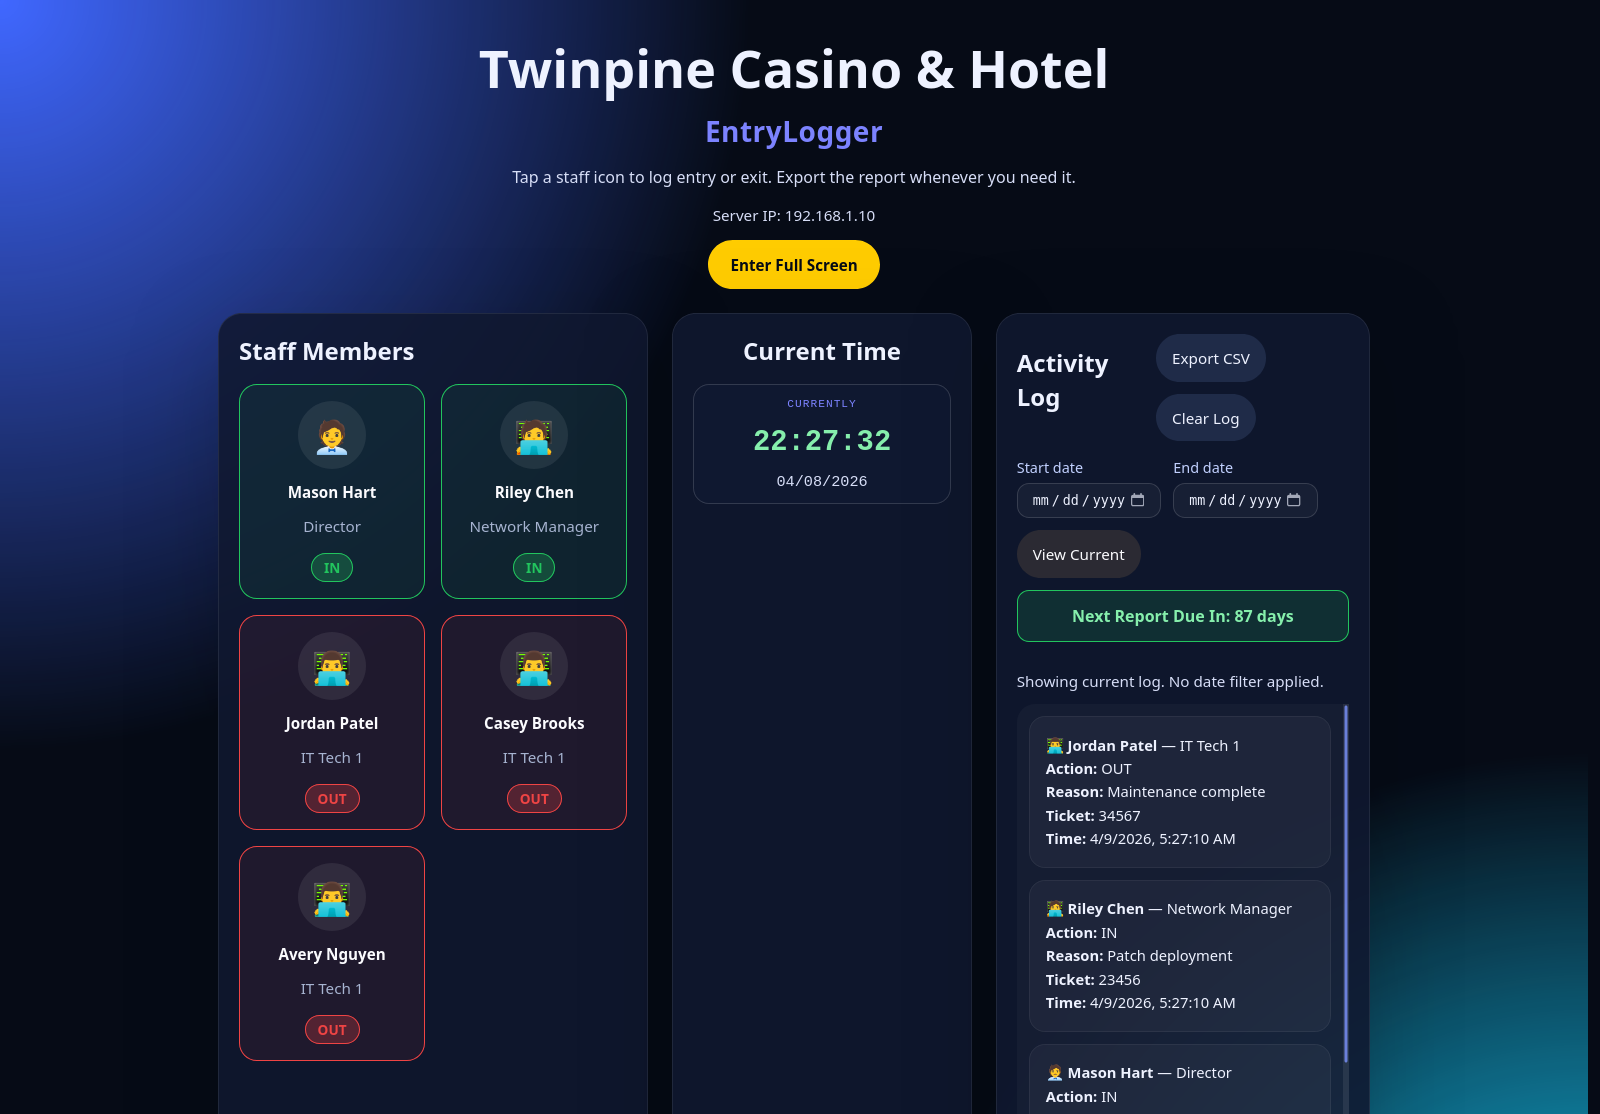
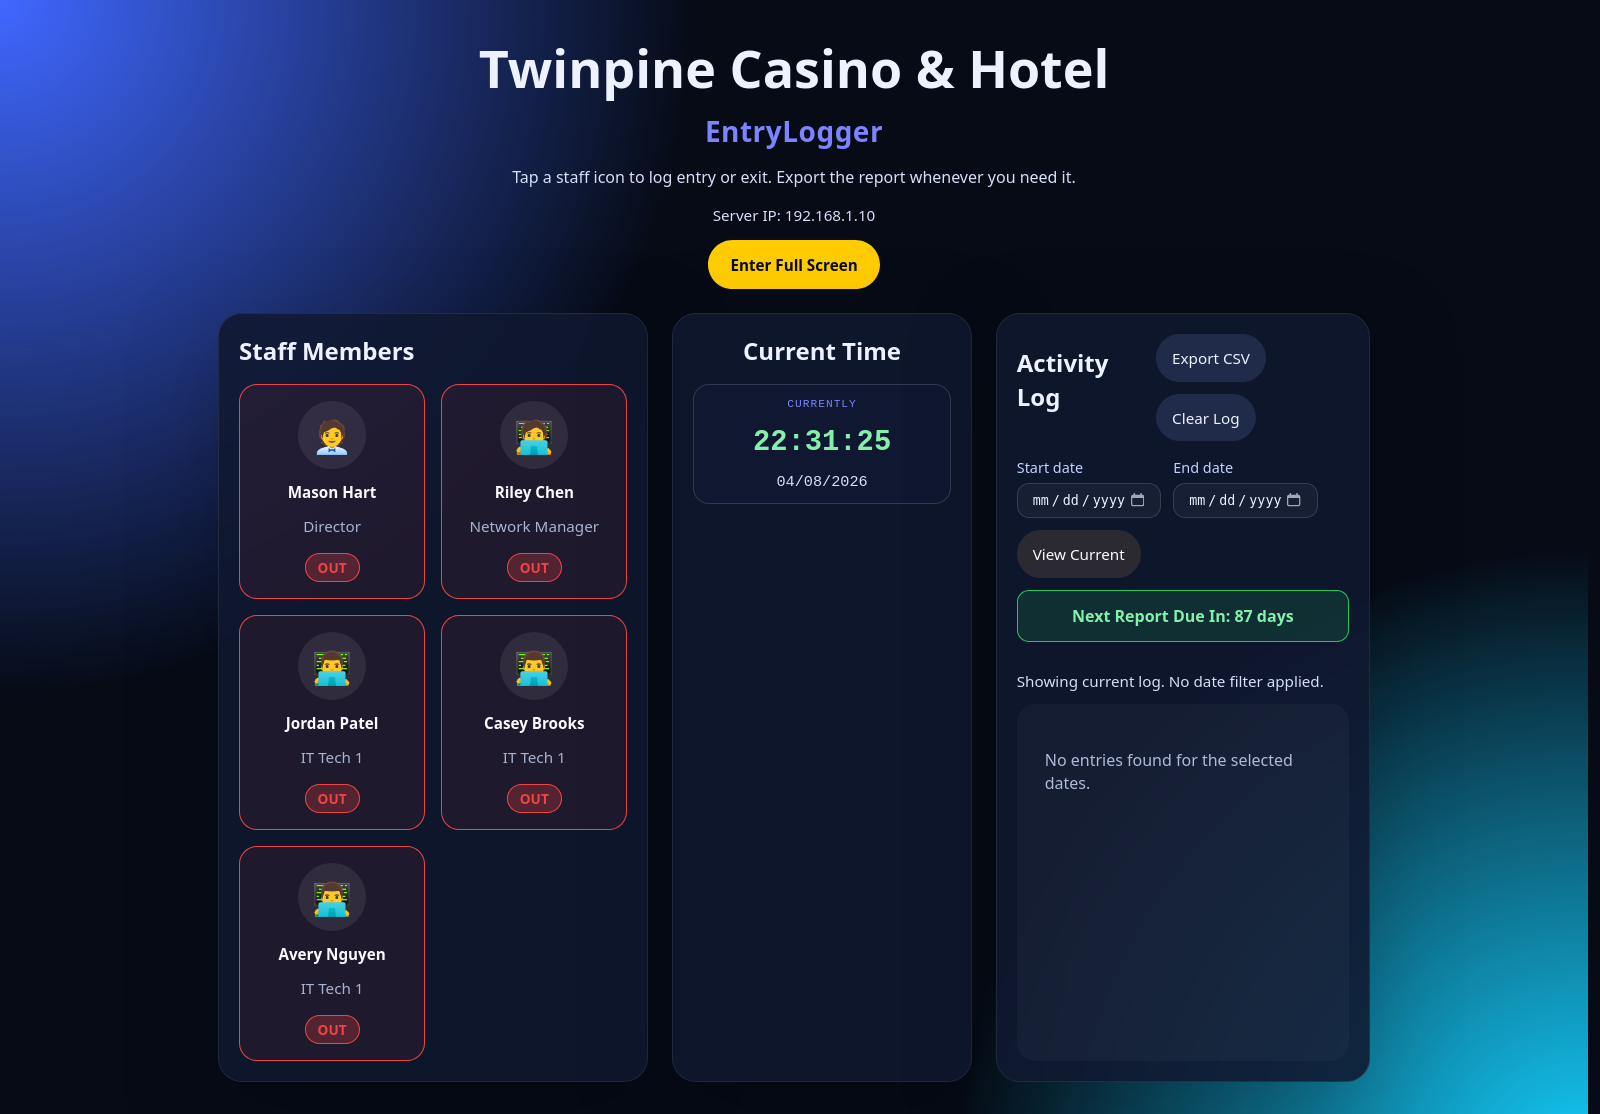
Remove Twinpine branding and refresh screenshots

diff --git a/templates/index.html b/templates/index.html
@@ -3,13 +3,13 @@
 <head>
   <meta charset="UTF-8" />
   <meta name="viewport" content="width=device-width, initial-scale=1.0" />
-  <title>Twinpine Casino & Hotel | EntryLogger</title>
+  <title>Secure Area Access | EntryLogger</title>
   <link rel="stylesheet" href="{{ url_for('static', filename='styles.css') }}" />
 </head>
 <body>
   <header class="hero">
     <div>
-      <h1>Twinpine Casino & Hotel</h1>
+      <h1>Secure Area Access</h1>
       <h2>EntryLogger</h2>
       <p>Tap a staff icon to log entry or exit. Export the report whenever you need it.</p>
       <p class="device-ip" id="deviceIp">Server IP: loading...</p>
